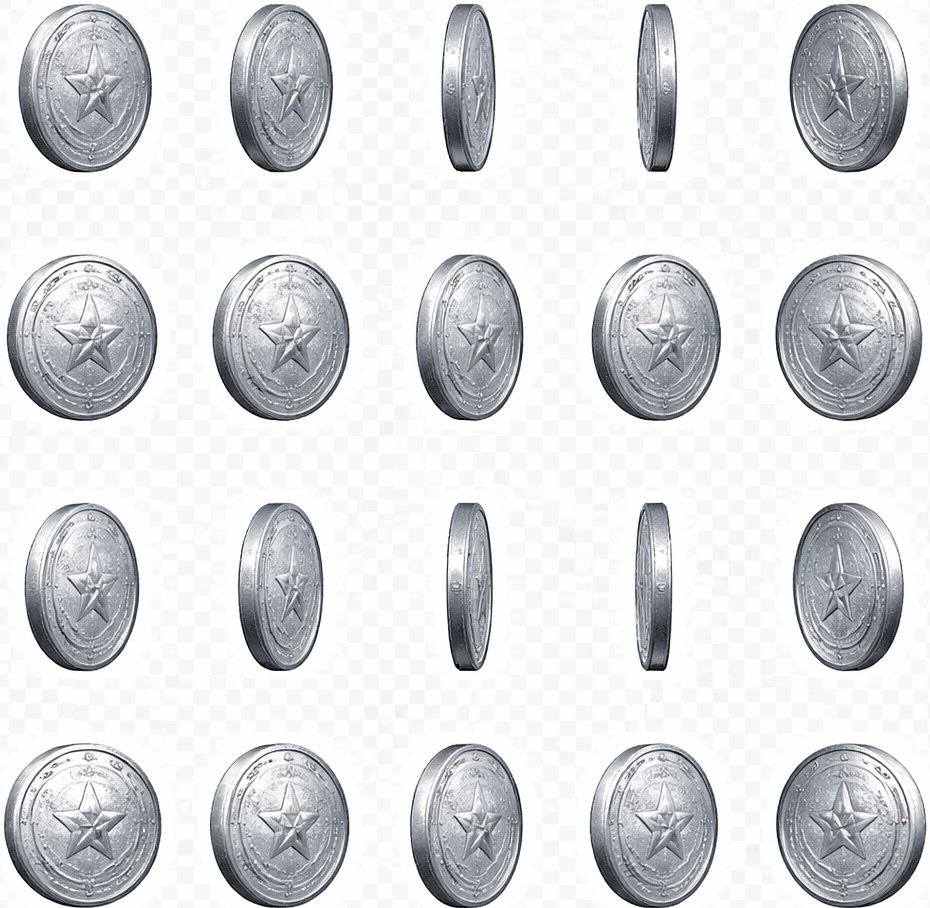
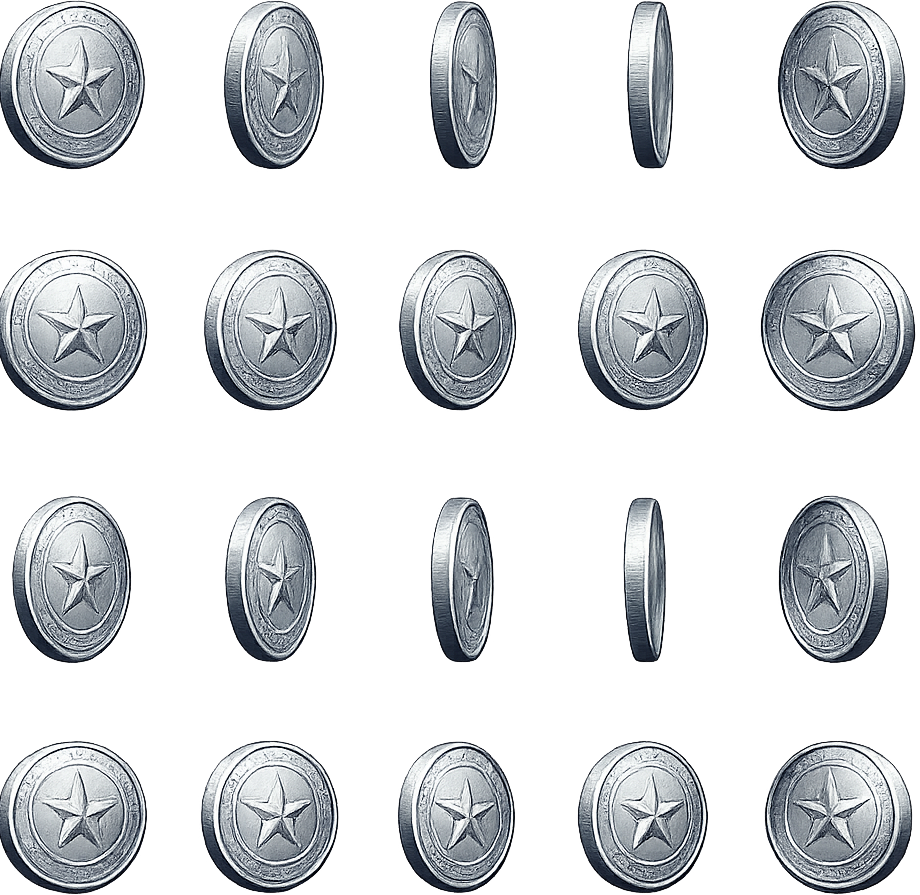
coin position and animation

diff --git a/src/game/scenes/GameScene.ts b/src/game/scenes/GameScene.ts
@@ -6,16 +6,18 @@ export default class GameScene extends Phaser.Scene {
   private pauseOverlay?: Phaser.GameObjects.Container;
   private overlay?: Phaser.GameObjects.Container;
   private balloon: Phaser.Types.Physics.Arcade.SpriteWithDynamicBody | undefined;
-  private invertPipe: Phaser.Types.Physics.Arcade.SpriteWithDynamicBody | undefined;
   // private lowerPipe: Phaser.Types.Physics.Arcade.ImageWithDynamicBody | undefined;
   // private upperPipe: Phaser.Types.Physics.Arcade.ImageWithDynamicBody | undefined;
   private pipes: Physics.Arcade.Group | undefined;
   private score: number;
   private scoreText: Phaser.GameObjects.Text | undefined;
+  private coin: Phaser.Types.Physics.Arcade.SpriteWithDynamicBody | undefined;
+  private isCoin: number;
 
   constructor() {
     super('GameScene');
     this.score = 0;
+    this.isCoin = 0;
   }
 
   preload() {
@@ -25,6 +27,10 @@ export default class GameScene extends Phaser.Scene {
       frameHeight: 240
     });
     this.load.image('pipe', 'assets/images/towerSprite.png');
+    this.load.spritesheet('coin', 'assets/images/coin.png', {
+      frameWidth: 180,
+      frameHeight: 210
+    });
   }
 
   create() {
@@ -74,15 +80,17 @@ export default class GameScene extends Phaser.Scene {
     this.balloon = this.physics.add.sprite(width * 0.15, height / 2, 'balloon').setScale(0.25);
     this.balloon.setGravityY(500);
     this.balloon.setCircle(this.balloon.displayWidth * 2.1, 0, 0);
+    this.coin = this.physics.add.sprite(0, 0, 'coin').setScale(0.18).setOrigin(0.5,0.5);
 
     this.pipes = this.physics.add.group();
     for(let i=0; i<4; i++){
       const upperPipe = this.pipes.create(0, 0, 'pipe').setImmovable().setOrigin(0, 1).setFlipY(true);
       const lowerPipe = this.pipes.create(0, 0, 'pipe').setImmovable().setOrigin(0,0);
-      this.placePipes(upperPipe, lowerPipe);
+      this.placePipes(upperPipe, lowerPipe, i===3);
     }
 
     this.pipes.setVelocityX(-200);
+    this.coin.setVelocityX(-200);
 
     this.physics.add.collider(this.balloon, this.pipes, this.gameOver, undefined, this);
     this.createScore();
@@ -94,11 +102,20 @@ export default class GameScene extends Phaser.Scene {
       duration: 200,
     });
 
+    this.anims.create({
+      key: 'coin',
+      frameRate: 3,
+      repeat: -1,
+      frames: this.anims.generateFrameNumbers('coin', { start: 0, end: 4 })
+    });
+
     this.balloon.on('animationcomplete', (animation: any) => {
       if (animation.key === 'fly') {
           this.balloon?.setFrame(0); // Replace 0 with your initial frame index or key
       }
-  });
+    });
+
+    this.coin.play('coin');
   }
 
   update() {
@@ -147,17 +164,28 @@ export default class GameScene extends Phaser.Scene {
     });
 
     if(uPipe && lPipe){
-      this.placePipes(uPipe, lPipe);
+      this.isCoin++;
+      this.placePipes(uPipe, lPipe, !Boolean(this.isCoin % 4 && this.isCoin > 0));
       this.increaseScore();
     }
   }
 
-  placePipes(uPipe: any, lPipe: any){
+  placePipes(uPipe: any, lPipe: any, isCoin: boolean = false){
     uPipe.x = this.getRightMostPipe() + this.getPipeHorizontalDistance();
     uPipe.y = this.getUpperPipePosition(),
 
     lPipe.x = uPipe.x;
     lPipe.y = uPipe.y + this.getPipeGap();
+
+    if(isCoin){
+      this.placeCoin(uPipe.y, lPipe.y, lPipe.x);
+    }
+  }
+
+  placeCoin(upperY: number, lowerY: number, x: number) {
+    const position = Phaser.Math.Between(upperY + (this.coin?.height as number) * 0.5, lowerY - (this.coin?.height as number) * 0.5);
+    this.coin?.setX(x + 18);
+    this.coin?.setY(position);
   }
 
   getRightMostPipe() {
@@ -359,6 +387,7 @@ export default class GameScene extends Phaser.Scene {
 
      this.overlay.add([overlay, gameoverText, restartButton, exitText]);
      this.setHighScore();
+     this.isCoin = 0;
   }
 
   setHighScore(){
